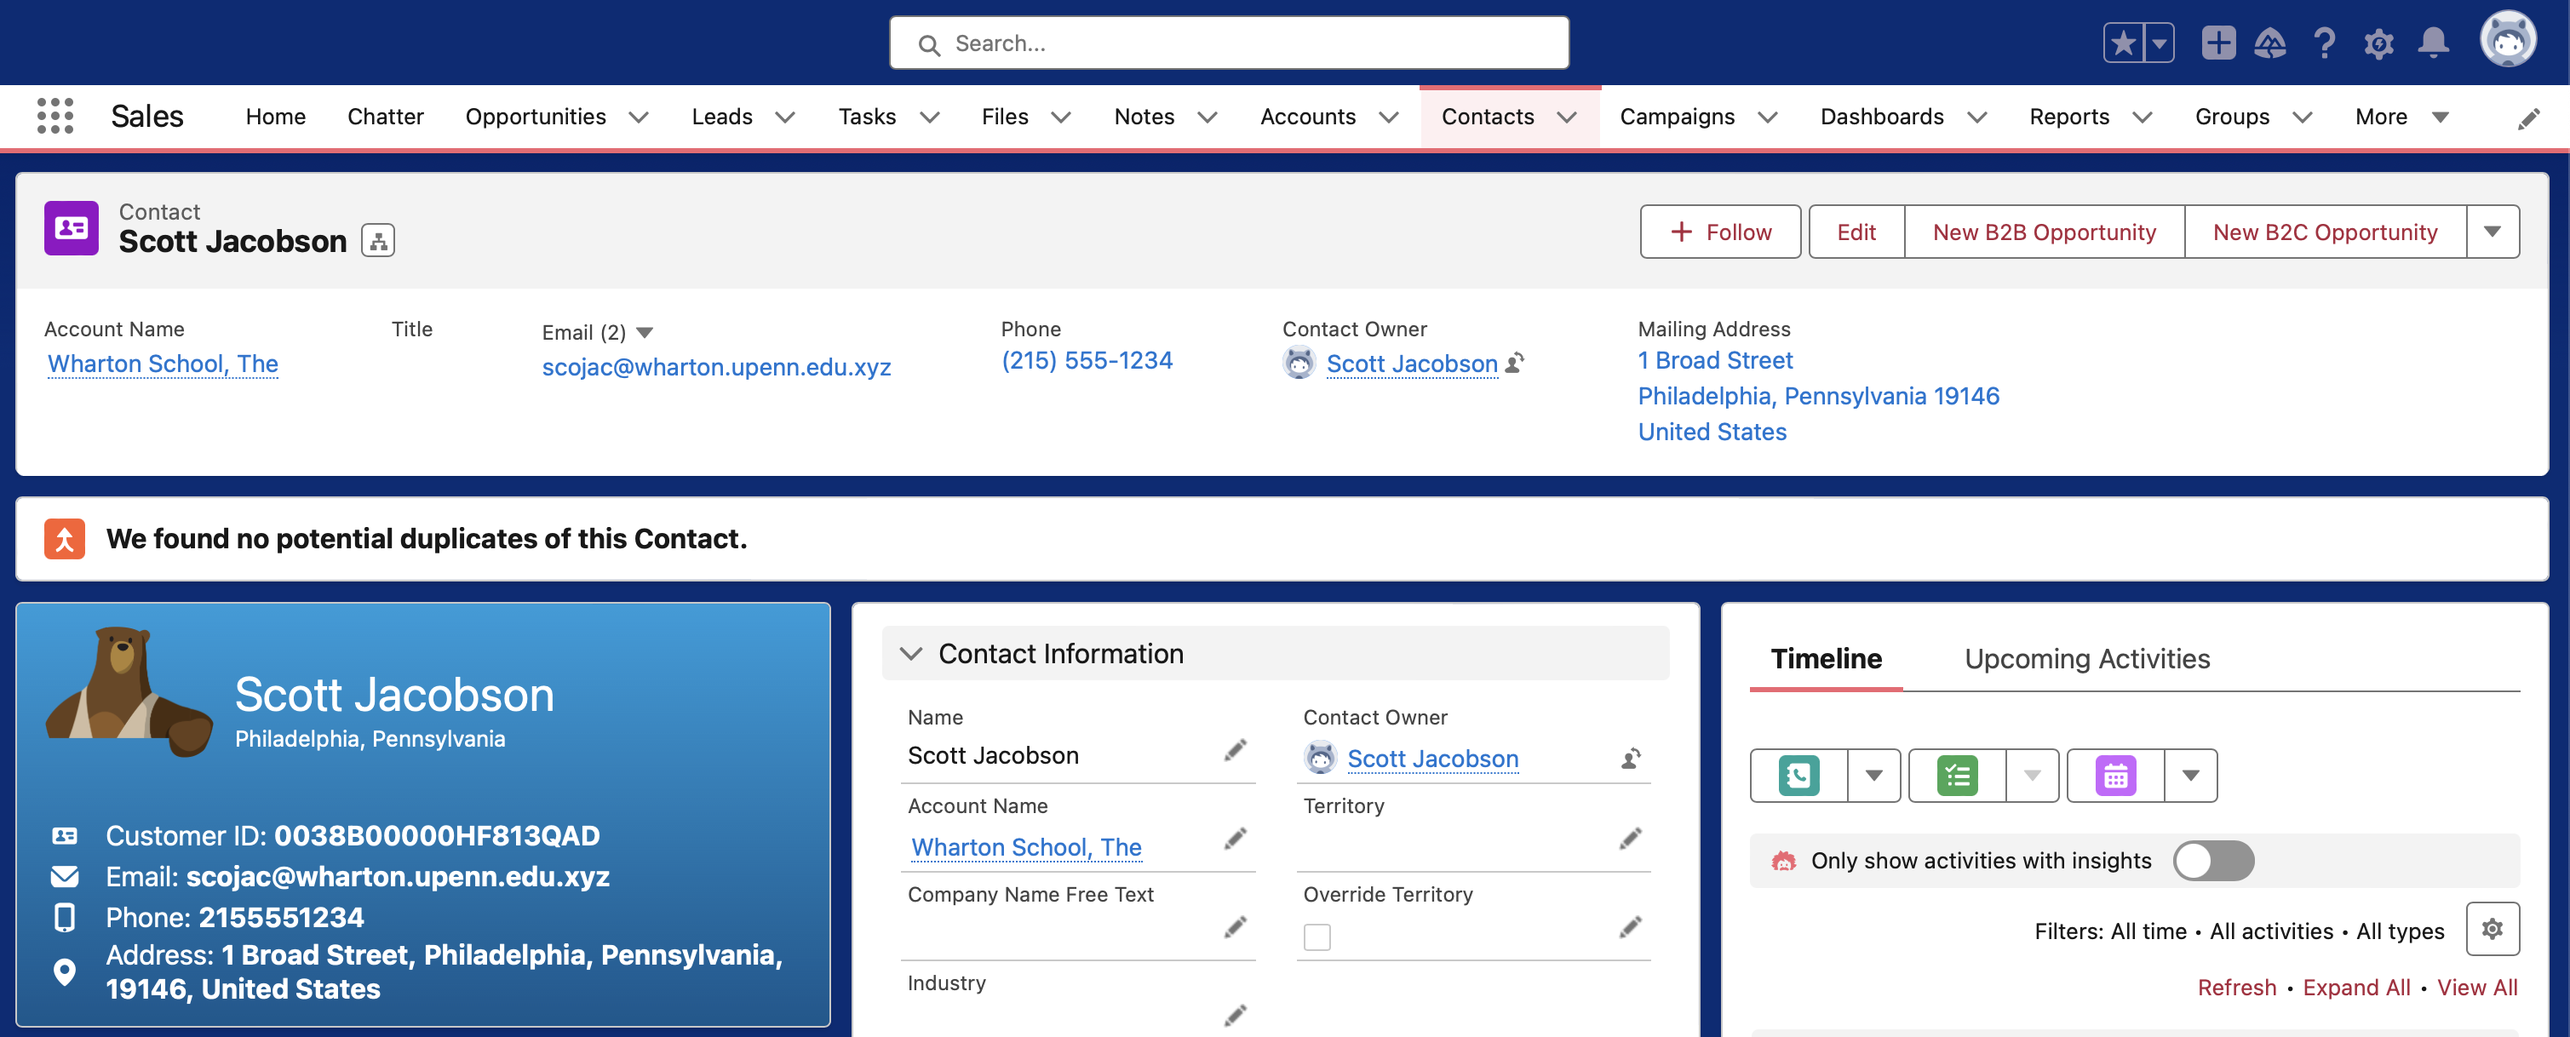
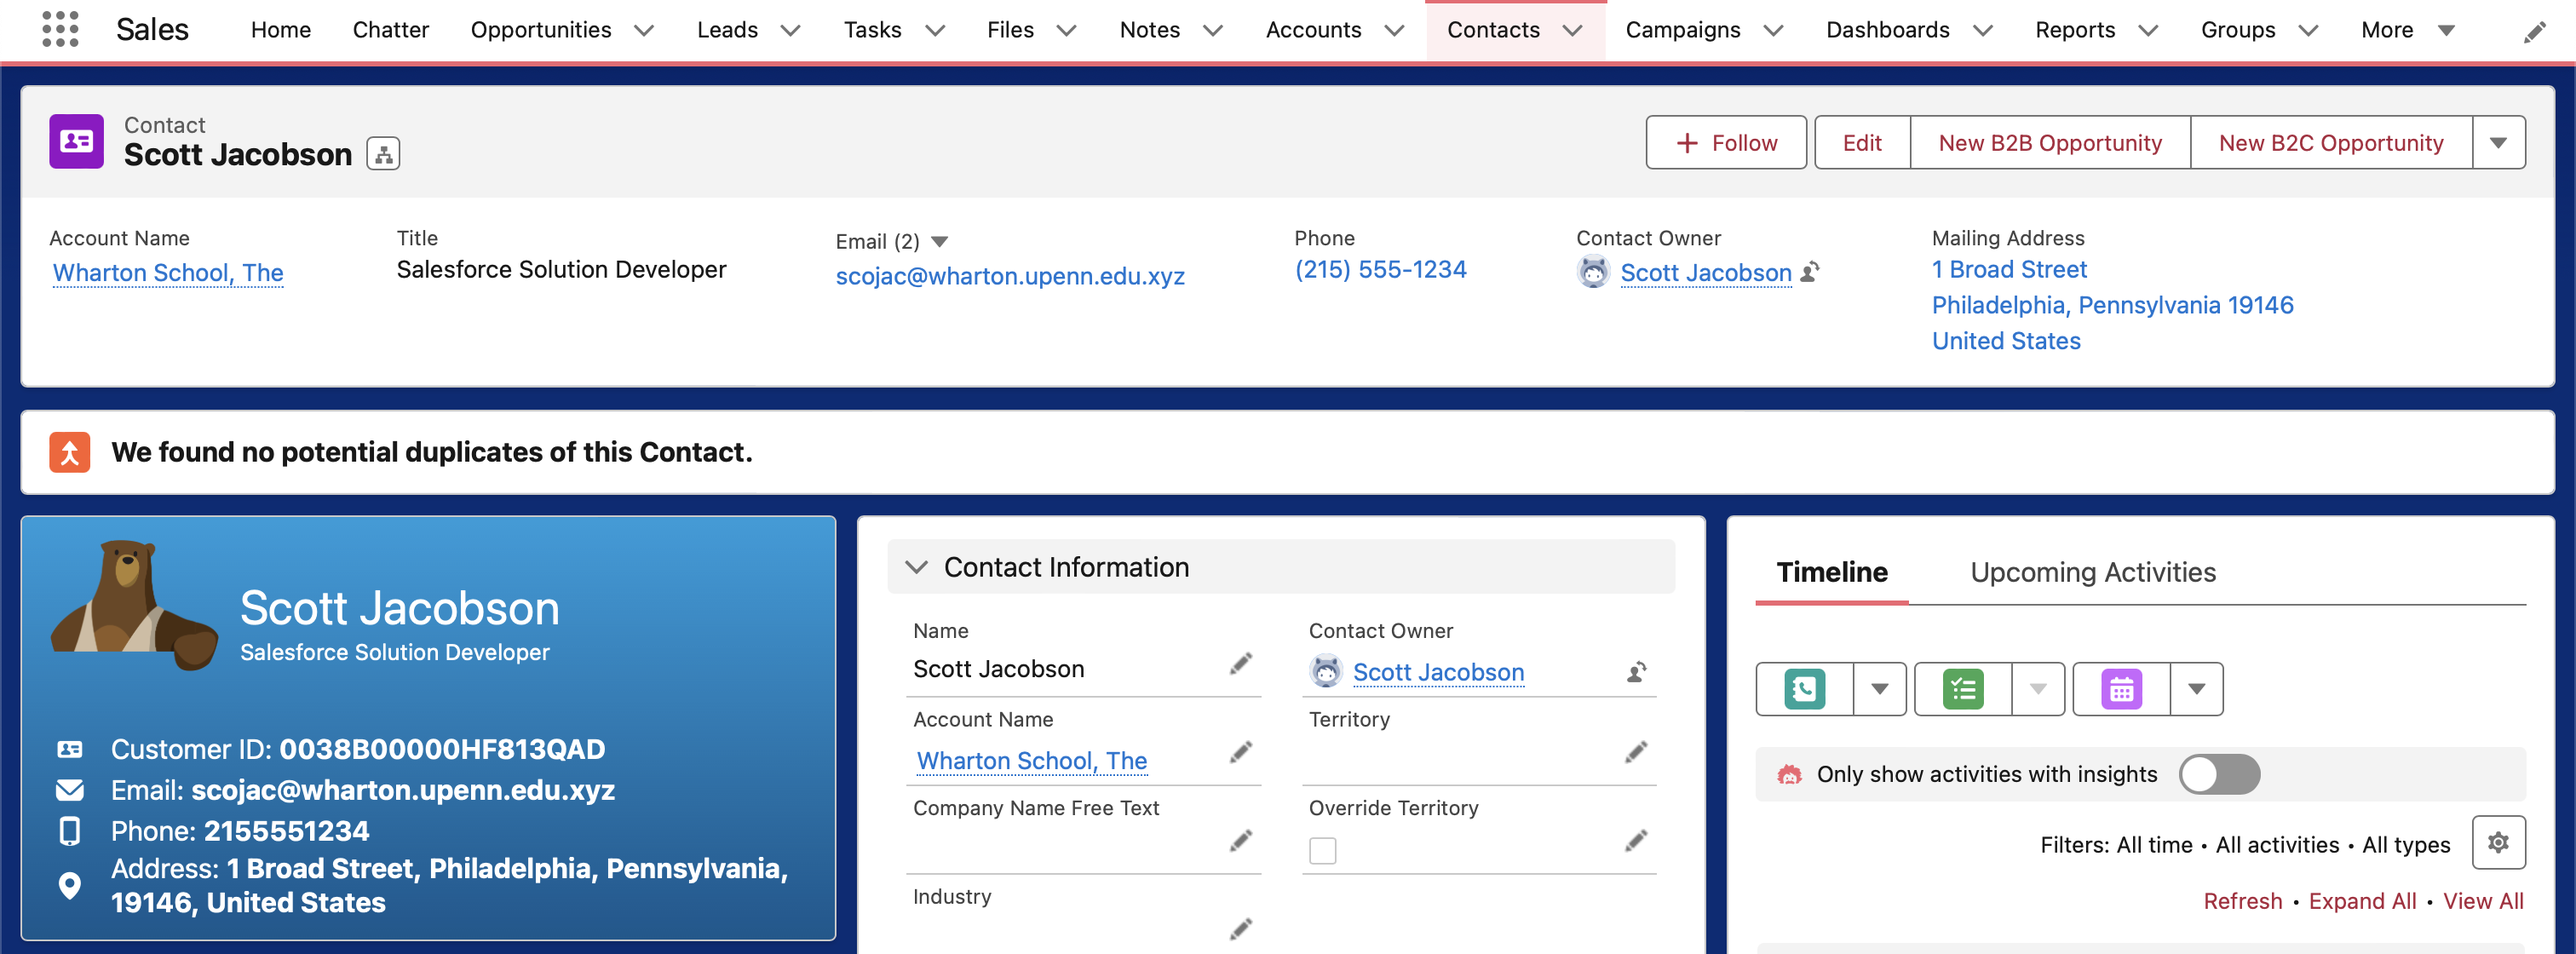
Update screenshot

diff --git a/force-app/main/default/lwc/contactCard/contactCard.js b/force-app/main/default/lwc/contactCard/contactCard.js
@@ -2,6 +2,7 @@ import { LightningElement, api, wire } from 'lwc';
 import { getFieldValue, getRecord } from 'lightning/uiRecordApi';
 
 import NAME_FIELD from '@salesforce/schema/Contact.Name';
+import TITLE_FIELD from '@salesforce/schema/Contact.Title';
 import PHONE_FIELD from '@salesforce/schema/Contact.MobilePhone';
 import EMAIL_FIELD from '@salesforce/schema/Contact.Email';
 import STREET_FIELD from '@salesforce/schema/Contact.MailingStreet';
@@ -12,7 +13,7 @@ import COUNTRY_FIELD from '@salesforce/schema/Contact.MailingCountry';
 import PHOTO_URL_FIELD from '@salesforce/schema/Contact.Contact_Photo_URL__c';
 import DEFAULT_PIC from '@salesforce/resourceUrl/defaultContactPhoto';
 
-const fields = [NAME_FIELD, PHONE_FIELD, EMAIL_FIELD, STREET_FIELD, CITY_FIELD, STATE_FIELD, ZIP_FIELD, COUNTRY_FIELD, PHOTO_URL_FIELD];
+const fields = [NAME_FIELD, TITLE_FIELD, PHONE_FIELD, EMAIL_FIELD, STREET_FIELD, CITY_FIELD, STATE_FIELD, ZIP_FIELD, COUNTRY_FIELD, PHOTO_URL_FIELD];
 
 export default class contactInfo extends LightningElement {
     @api recordId;
@@ -32,6 +33,12 @@ export default class contactInfo extends LightningElement {
         const name = getFieldValue(this.contact.data, NAME_FIELD);
         console.log('Name:', name);
         return name;
+    }
+
+    get title() {
+        const title = getFieldValue(this.contact.data, TITLE_FIELD);
+        console.log('Title: ', title);
+        return title;
     }
 
     get phone() {

diff --git a/force-app/main/default/lwc/contactCard/contactCard.html b/force-app/main/default/lwc/contactCard/contactCard.html
@@ -10,7 +10,7 @@
                 </div>
                 <div class="slds-media__body slds-has-flexi-truncate">
                     <div class="slds-truncate slds-text-heading_large" title={name}>{name}</div>
-                    <div class="slds-text-body_regular">{cityState}</div>
+                    <div class="slds-text-body_regular">{title}</div>
                 </div>
             </div>
         </div>
